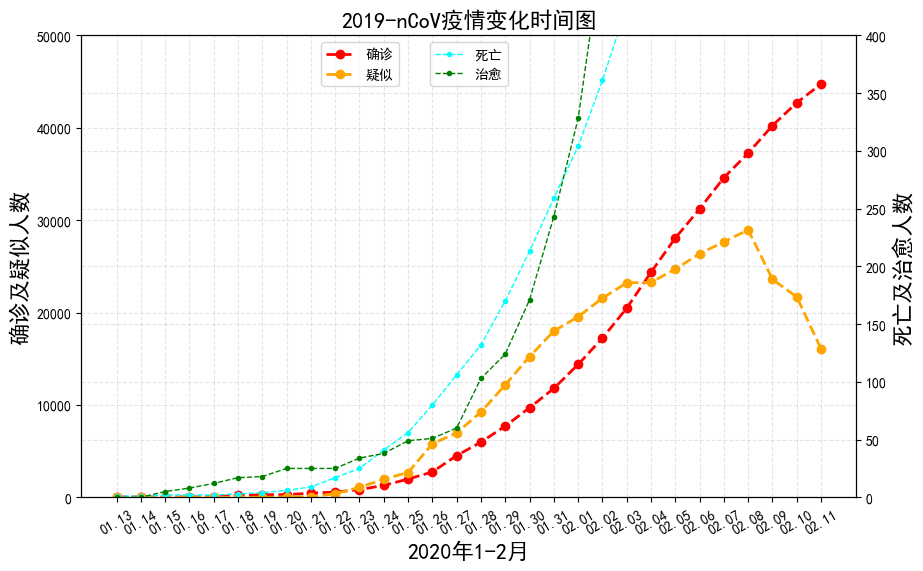
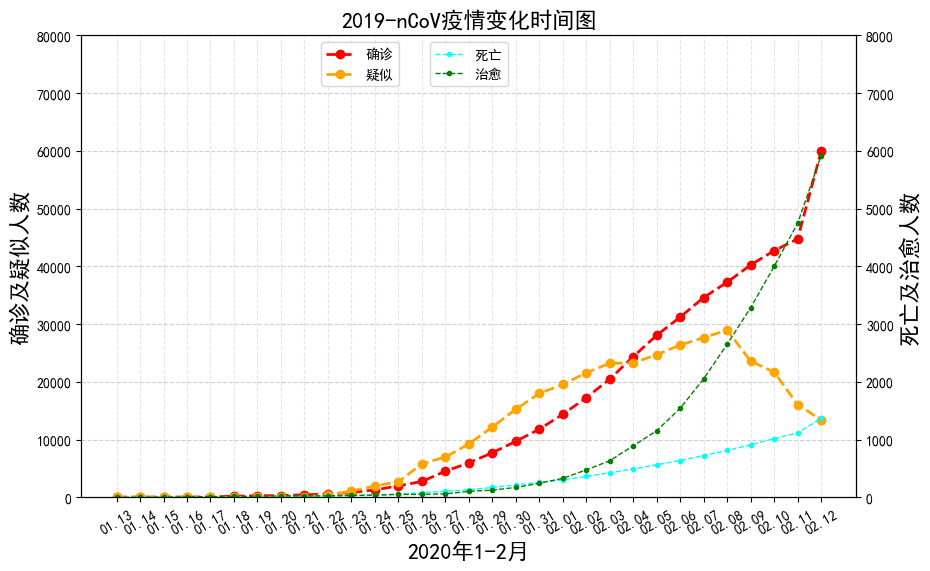
Daily Commit

diff --git a/nCov_ECharts_map_visualization/nCov_distribution_map.html b/nCov_ECharts_map_visualization/nCov_distribution_map.html
@@ -83,7 +83,7 @@
                             formatter: '{b}', // b是数据名，c是数据值
                             fontSize: 12
                         },
-                        data: [
+                        data: [ // 取出data数据，data是json数据，取出字典的键对应的值
                             {name: data['name'][0], value: data['value'][0]},
                             {name: data['name'][1], value: data['value'][1]},
                             {name: data['name'][2], value: data['value'][2]},

diff --git a/nCov_basemap_visualization/nCoV_daily_change.py b/nCov_basemap_visualization/nCoV_daily_change.py
@@ -33,7 +33,7 @@ def daily_change():
     ax1.set_xlabel("2020年1-2月", fontsize=16)
     ax1.set_xticklabels(date_list, rotation=30)
     ax1.set_ylabel(r"确诊及疑似人数", fontsize=16)
-    ax1.set_ylim(0, 50000)
+    ax1.set_ylim(0, 80000)
     # 显示网格线和显示图例
     plt.grid(which='major', axis='both', color='grey', linestyle='--', alpha=0.2)
     plt.legend(loc='upper left', bbox_to_anchor=(0.3,1))
@@ -44,7 +44,7 @@ def daily_change():
     ax2.plot(date_list, everyday_heal, lw=1, ls='--', marker='.', color='green', label='治愈')
     # 设置标题刻度
     ax2.set_ylabel(r"死亡及治愈人数", fontsize=16)
-    ax2.set_ylim(0, 400)
+    ax2.set_ylim(0, 8000)
     # 显示网格线和显示图例
     plt.grid(which='major', axis='both', color='grey', linestyle='--', alpha=0.2)
     plt.legend(loc='upper center')
